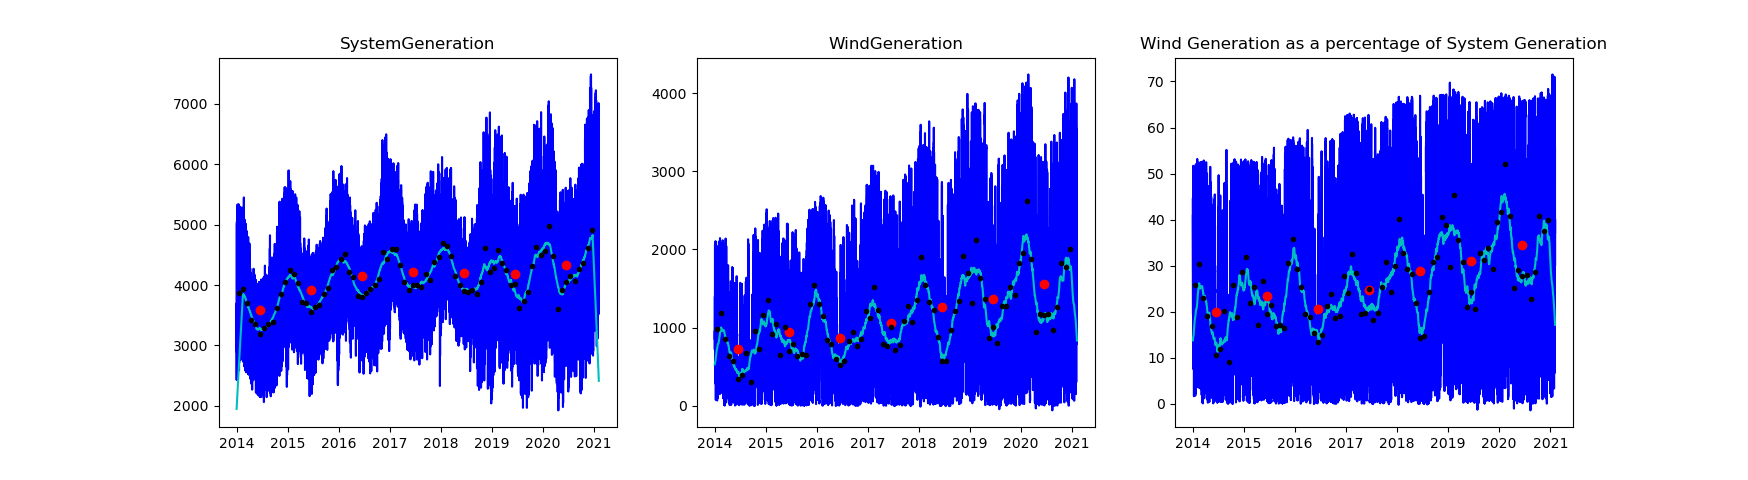
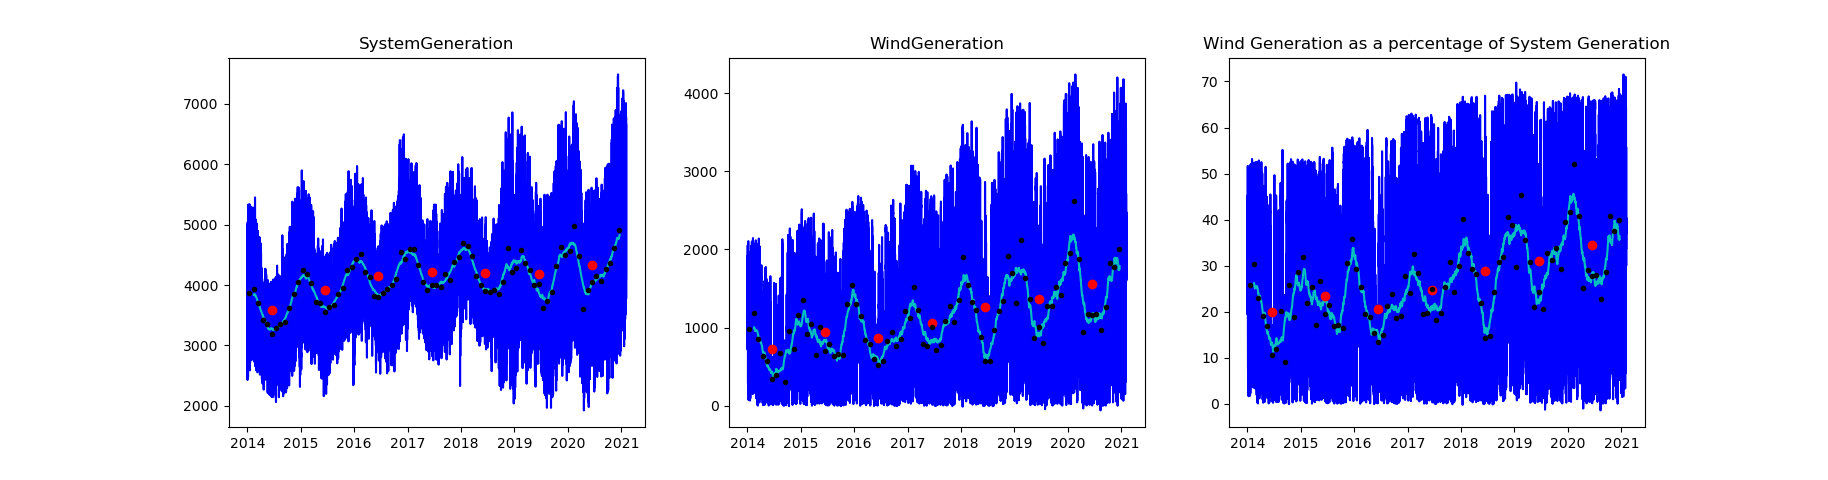
added NaN padding to movAvg

diff --git a/readDashboardData.py b/readDashboardData.py
@@ -53,6 +53,8 @@ def calcStats(timeSeries, dataSeries):
 
 def movAvg(dataSeries, N):
     movAvg = np.convolve(dataSeries, np.ones(N)/N, mode='same')#, mode='valid')
+    movAvg[:int(N/2)] = float("NaN")
+    movAvg[-int(N/2):] = float("NaN")
     return movAvg
 
 windTmp = importData("WindGeneration")
@@ -124,18 +126,11 @@ lines, labels = plt.thetagrids( range(0,360,30), ('Jan', 'Feb', 'Mar','Apr', 'Ma
 plt.legend([y.year for y in yearVector], loc='upper left', bbox_to_anchor=(1.05, 1))
 plt.title("Monthly average Wind Generation \n as a percentage of total System Generation")
 
-
-halfN = int(N/2)
 dayNum = np.array([datetime.date(d.year, d.month, d.day).toordinal() - datetime.date(d.year, 1, 1).toordinal() for d in dfMerged["dateTime"]])
 plt.figure(4)
 for iYear, c in zip(range(2014, 2021),color):
     b = [d.year==iYear for d in dfMerged["dateTime"]]
-    if iYear == 2014:
-        plt.polar((dayNum[b][halfN:]/365)*np.pi*2, movAvgWindPerSys[b][halfN:], c=c)
-    elif iYear == 2020:
-        plt.polar((dayNum[b][:-halfN]/365)*np.pi*2, movAvgWindPerSys[b][:-halfN], c=c)
-    else:
-        plt.polar((dayNum[b]/365)*np.pi*2, movAvgWindPerSys[b], c=c)
+    plt.polar((dayNum[b]/365)*np.pi*2, movAvgWindPerSys[b], c=c)
 
 lines, labels = plt.thetagrids( range(0,360,30), ('Jan', 'Feb', 'Mar','Apr', 'May', 'Jun', 'Jul', 'Aug', 'Sep', 'Oct', 'Nov', 'Dec') )
 plt.legend([y.year for y in yearVector], loc='upper left', bbox_to_anchor=(1.05, 1))
